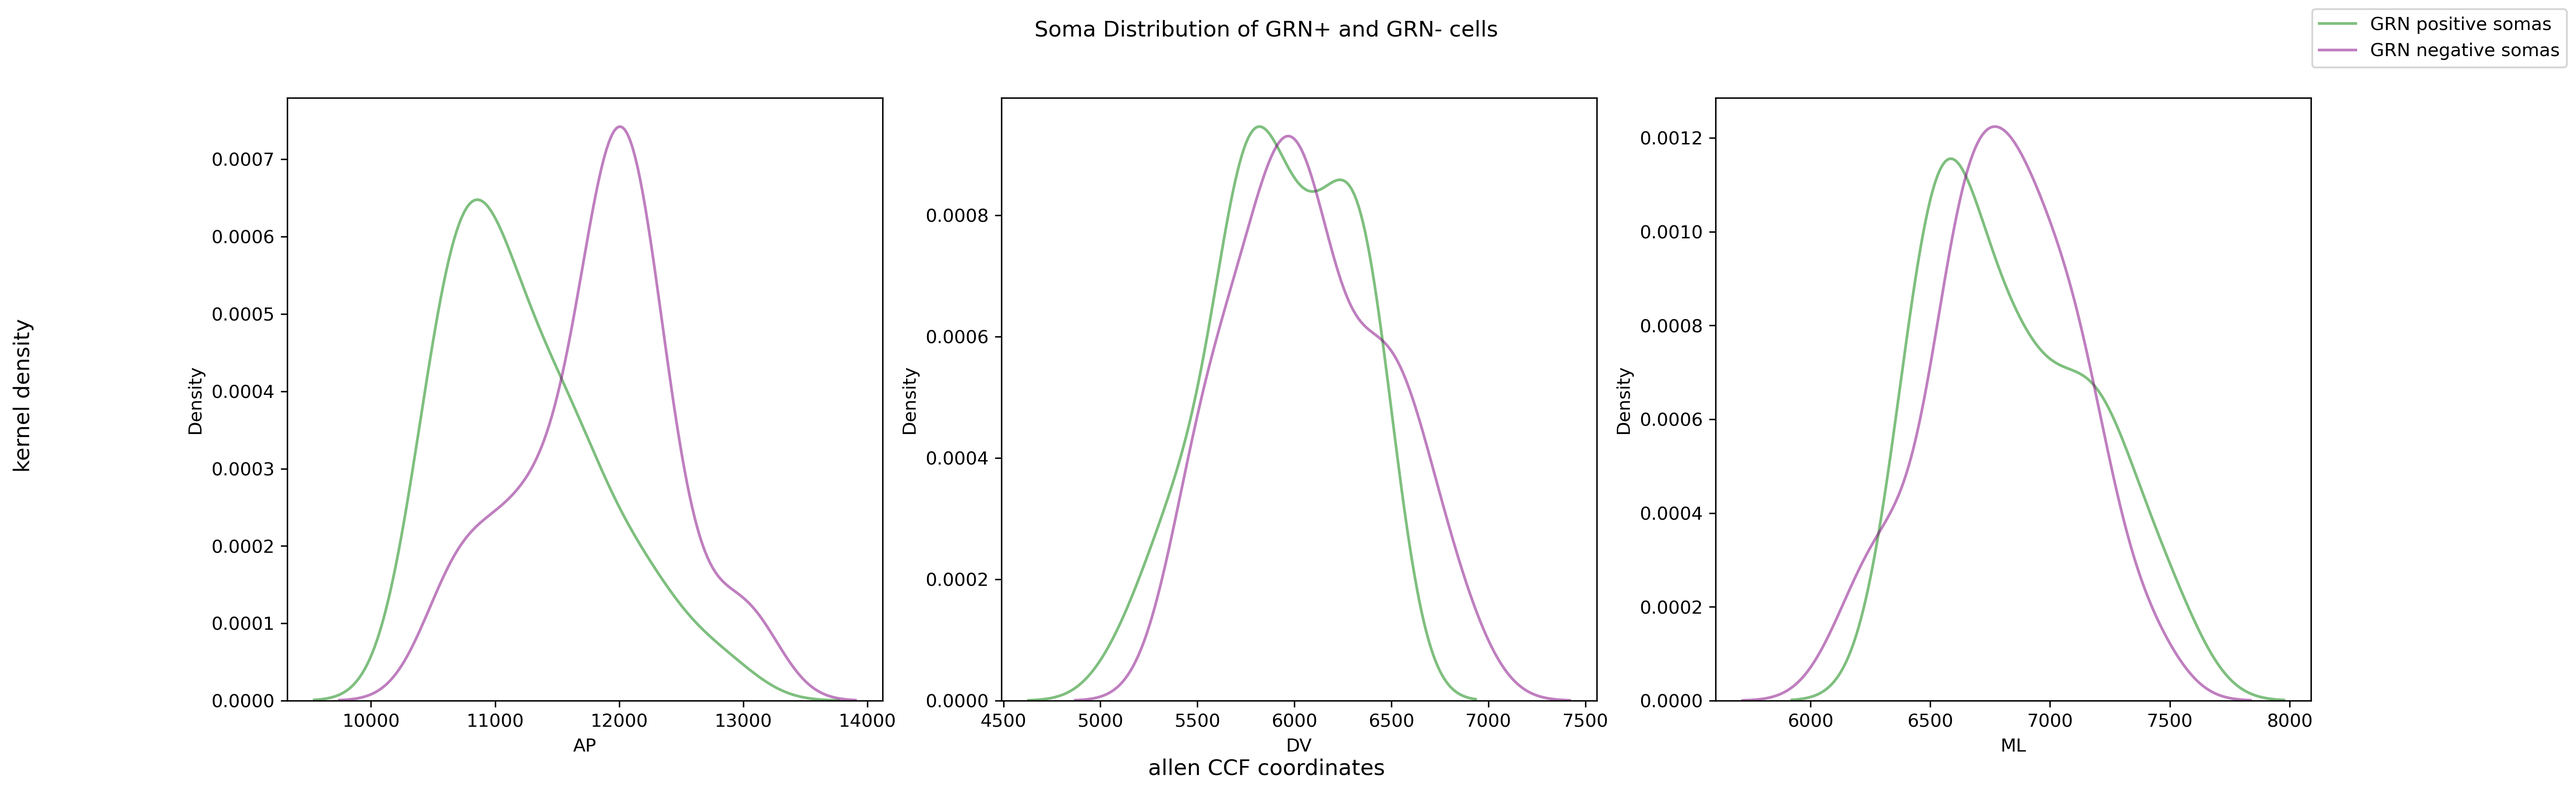
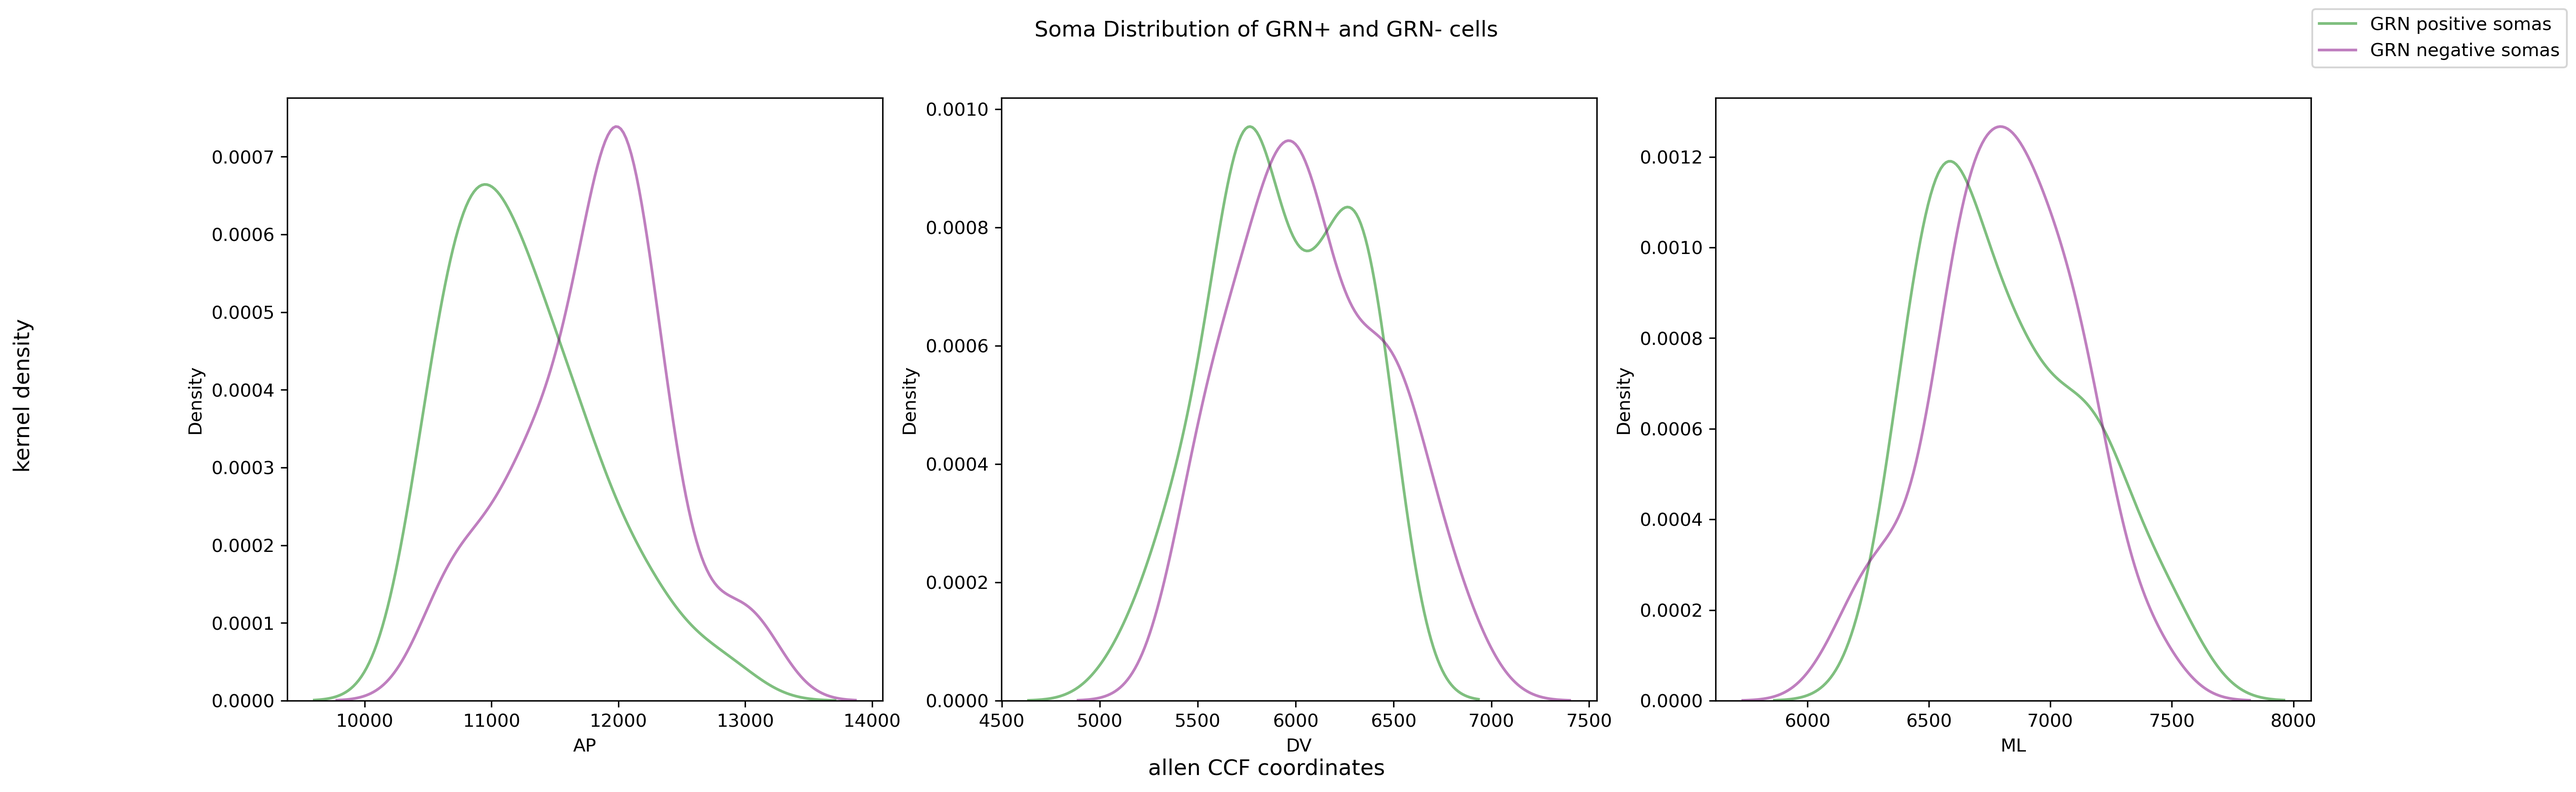
IRN/PARN compartmental analyses

diff --git a/reconstructions/utils/plotting_funcs.py b/reconstructions/utils/plotting_funcs.py
@@ -1,11 +1,62 @@
-import matplotlib
-matplotlib.use("QtAgg")
 import matplotlib.pyplot as plt
 import seaborn as sns
 from reconstructions.utils import preprocess_funcs
 
+def comp_node_dist(points1, points2, suptitle=None, labels=None, ver=3.0, colors=['blue', 'red']):
+    '''
+    Compare node distribution in x, y, z coordinates of two populations of points
+    
+    :param points1: list of dictionaries, nodes from a reconstruction's json, to be input into preprocess_funcs.get_coords
+    :param points2: list of dictionaries, nodes from a reconstruciton's json, to be input into preprocess_funcs.get_coords
+    :param suptitle: str, input to fig.suptitle
+    :param labels: list of str, labels for the two populations to compare
+    :param ver: float, allen ccf version, to be used for x labels, either 3.0 or 2.5, written as x and z were switched between two versions
+    :param colors: array of str, the colors you want the two populations to be labeled as, default blue and red
+    '''
+    points1x = preprocess_funcs.get_coords(points1, 'x')
+    points1y = preprocess_funcs.get_coords(points1, 'y')
+    points1z = preprocess_funcs.get_coords(points1, 'z')
+
+    points2x = preprocess_funcs.get_coords(points2, 'x')
+    points2y = preprocess_funcs.get_coords(points2, 'y')
+    points2z = preprocess_funcs.get_coords(points2, 'z')
+
+    fig, axes = plt.subplots(1, 3, figsize=(20,6))
+    xax, yax, zax = axes
+    if suptitle:
+        fig.suptitle(suptitle)
+    fig.supylabel('kernel density')
+    fig.supxlabel('allen CCF coordinates')
+    
+    match ver:
+        case 3.0:
+            xax.set_xlabel('AP')
+            yax.set_xlabel('DV')
+            zax.set_xlabel('ML')
+        case 2.5:
+            xax.set_xlabel('ML')
+            yax.set_xlabel('DV')
+            zax.set_xlabel('AP')
+
+    sns.kdeplot(data=points1x, color=colors[0], alpha=0.5, ax=xax)
+    sns.kdeplot(data=points2x, color=colors[1], alpha=0.5, ax=xax)
+
+    sns.kdeplot(data=points1y, color=colors[0], alpha=0.5, ax=yax)
+    sns.kdeplot(data=points2y, color=colors[1], alpha=0.5, ax=yax)
+
+    sns.kdeplot(data=points1z, color=colors[0], alpha=0.5, ax=zax)
+    sns.kdeplot(data=points2z, color=colors[1], alpha=0.5, ax=zax)
+
+    if labels:
+        lines = xax.get_lines()
+        lines[0].set_label(labels[0])
+        lines[1].set_label(labels[1])
+        fig.legend()
+
+    return fig, axes
 # =============================================================================
-# def comp_node_dist(points1, points2, suptitle=None, labels=None, ver=3.0, colors=['blue', 'red']):
+# 
+# def comp_node_dist(*dataargs, suptitle=None, labels=None, ver=3.0, colors=['blue', 'red']):
 #     '''
 #     Compare node distribution in x, y, z coordinates of two populations of points
 #     
@@ -16,13 +67,9 @@ from reconstructions.utils import preprocess_funcs
 #     :param ver: float, allen ccf version, to be used for x labels, either 3.0 or 2.5, written as x and z were switched between two versions
 #     :param colors: array of str, the colors you want the two populations to be labeled as, default blue and red
 #     '''
-#     points1x = preprocess_funcs.get_coords(points1, 'x')
-#     points1y = preprocess_funcs.get_coords(points1, 'y')
-#     points1z = preprocess_funcs.get_coords(points1, 'z')
-# 
-#     points2x = preprocess_funcs.get_coords(points2, 'x')
-#     points2y = preprocess_funcs.get_coords(points2, 'y')
-#     points2z = preprocess_funcs.get_coords(points2, 'z')
+#     datax = [preprocess_funcs.get_coords(data, 'x') for data in dataargs]
+#     datay = [preprocess_funcs.get_coords(data, 'y') for data in dataargs]
+#     dataz = [preprocess_funcs.get_coords(data, 'z') for data in dataargs]
 # 
 #     fig, (xax, yax, zax) = plt.subplots(1, 3, figsize=(20,6))
 #     if suptitle:
@@ -39,73 +86,25 @@ from reconstructions.utils import preprocess_funcs
 #             xax.set_xlabel('ML')
 #             yax.set_xlabel('DV')
 #             zax.set_xlabel('AP')
-# 
-#     sns.kdeplot(data=points1x, color=colors[0], alpha=0.5, ax=xax)
-#     sns.kdeplot(data=points2x, color=colors[1], alpha=0.5, ax=xax)
-# 
-#     sns.kdeplot(data=points1y, color=colors[0], alpha=0.5, ax=yax)
-#     sns.kdeplot(data=points2y, color=colors[1], alpha=0.5, ax=yax)
-# 
-#     sns.kdeplot(data=points1z, color=colors[0], alpha=0.5, ax=zax)
-#     sns.kdeplot(data=points2z, color=colors[1], alpha=0.5, ax=zax)
+#     
+#     for i, data in enumerate(datax):
+#         sns.kdeplot(data=data, color=colors[i-1], alpha=0.5, ax=xax)
+#     
+#     for i, data in enumerate(datay):
+#         sns.kdeplot(data=data, color=colors[i-1], alpha=0.5, ax=yax)
+#         
+#     for i, data in enumerate(dataz):
+#         sns.kdeplot(data=data, color=colors[i-1], alpha=0.5, ax=zax)
 # 
 #     if labels:
 #         lines = xax.get_lines()
-#         lines[0].set_label(labels[0])
-#         lines[1].set_label(labels[1])
+#         for i in len(lines):
+#             lines[i-1].set_label(labels[i-1])
+#         
 #         fig.legend()
 # 
 #     return fig
 # =============================================================================
-
-def comp_node_dist(*dataargs, suptitle=None, labels=None, ver=3.0, colors=['blue', 'red']):
-    '''
-    Compare node distribution in x, y, z coordinates of two populations of points
-    
-    :param points1: list of dictionaries, nodes from a reconstruction's json, to be input into preprocess_funcs.get_coords
-    :param points2: list of dictionaries, nodes from a reconstruciton's json, to be input into preprocess_funcs.get_coords
-    :param suptitle: str, input to fig.suptitle
-    :param labels: list of str, labels for the two populations to compare
-    :param ver: float, allen ccf version, to be used for x labels, either 3.0 or 2.5, written as x and z were switched between two versions
-    :param colors: array of str, the colors you want the two populations to be labeled as, default blue and red
-    '''
-    datax = [preprocess_funcs.get_coords(data, 'x') for data in dataargs]
-    datay = [preprocess_funcs.get_coords(data, 'y') for data in dataargs]
-    dataz = [preprocess_funcs.get_coords(data, 'z') for data in dataargs]
-
-    fig, (xax, yax, zax) = plt.subplots(1, 3, figsize=(20,6))
-    if suptitle:
-        fig.suptitle(suptitle)
-    fig.supylabel('kernel density')
-    fig.supxlabel('allen CCF coordinates')
-    
-    match ver:
-        case 3.0:
-            xax.set_xlabel('AP')
-            yax.set_xlabel('DV')
-            zax.set_xlabel('ML')
-        case 2.5:
-            xax.set_xlabel('ML')
-            yax.set_xlabel('DV')
-            zax.set_xlabel('AP')
-    
-    for i, data in enumerate(datax):
-        sns.kdeplot(data=data, color=colors[i-1], alpha=0.5, ax=xax)
-    
-    for i, data in enumerate(datay):
-        sns.kdeplot(data=data, color=colors[i-1], alpha=0.5, ax=yax)
-        
-    for i, data in enumerate(dataz):
-        sns.kdeplot(data=data, color=colors[i-1], alpha=0.5, ax=zax)
-
-    if labels:
-        lines = xax.get_lines()
-        for i in len(lines):
-            lines[i-1].set_label(labels[i-1])
-        
-        fig.legend()
-
-    return fig
 
 def plot_node_dist(nodes, colors=['blue']):
     pointsx = preprocess_funcs.get_coords(nodes, 'x')

diff --git a/IRN_PARN_to_XII.py b/IRN_PARN_to_XII.py
@@ -10,6 +10,7 @@ from tqdm import tqdm
 import os
 import numpy as np
 
+#os.system('conda activate reconstructions')
 
 freqs = pickle.load(open(freqspkl, 'rb'))
 somas = pickle.load(open(somaspkl, 'rb'))
@@ -34,37 +35,30 @@ IRNPARNap = IRNap+PARNap
 MedRNa_bound = np.min(IRNPARNap)
 MedRNp_bound = np.max(IRNPARNap)
 MedRNrange = MedRNp_bound-MedRNa_bound
-MedRNmid1 = MedRNrange/3
-MedRNmid2 = 2*(MedRNmid1)
+MedRNmid = MedRNa_bound + MedRNrange/3
+#MedRNmid2 = MedRNa_bound + 2*(MedRNmid1)
 
 antIPARNcells = []
-midIPARNcells = []
 postIPARNcells = []
 for cell, soma in somas.items():
-    if MedRNa_bound <= soma['x'] < MedRNmid1:
+    if MedRNa_bound <= soma['x'] < MedRNmid:
         antIPARNcells.append(cell)
-    if MedRNmid1 <= soma['x'] < MedRNmid2:
-        midIPARNcells.append(cell)
-    if MedRNmid2 <= soma['x'] <= MedRNp_bound:
+    if MedRNmid <= soma['x'] <= MedRNp_bound:
         postIPARNcells.append(cell)
         
 antIPARNends = {}
-midIPARNends = {}
 postIPARNends = {}
 for file in tqdm(os.listdir(allcoordswapped), desc='Loading endpoints'):
     cellname = file.split('.')[0]
     endpoints = ld.get_endpoints_from_file(os.path.join(allcoordswapped, file))
     if cellname in antIPARNcells:
         antIPARNends[cellname] = endpoints
-    if cellname in midIPARNends:
-        midIPARNends[cellname] = endpoints
-    if cellname in postIPARNends:
+    if cellname in postIPARNcells:
         postIPARNends[cellname] = endpoints
         
 antIPARNXII = pp.get_nodes_in_region(antIPARNends, 773, kind='bulk')
-midIPARNXII = pp.get_nodes_in_region(midIPARNends, 773, kind='bulk')
 postIPARNXII = pp.get_nodes_in_region(postIPARNends, 773, kind='bulk')
-
+5
 XIIap = [vertex[0] for vertex in XIIvertices]
 XIIdv = [vertex[1] for vertex in XIIvertices]
 XIIlr = [vertex[2] for vertex in XIIvertices]
@@ -85,9 +79,8 @@ XIIlr = [vertex[2] for vertex in XIIvertices]
 #XIInodes = pp.get_nodes_in_region(XIIends, 773, kind='bulk')
 
 #fig, axes = pl.plot_node_dist(XIInodes)
-labels = ['anterior IRN/PARN','middle IRN/PARN','posterior IRN/PARN']
-fig, axes = pl.comp_node_dist(antIPARNXII, midIPARNXII, postIPARNXII, suptitle='Compartmental analysis of IRN/PARN projections to XII',
-                              labels=labels, colors=['red', 'blue', 'green'])
+labels = ['anterior IRN/PARN','posterior IRN/PARN']
+fig, axes = pl.comp_node_dist(antIPARNXII, postIPARNXII, labels=labels, suptitle='Compartmental analysis of IRN/PARN projections to XII', colors=['red', 'blue'])
 axes[0].axvline(x=13001.4, label='XII posterior boundary')
 axes[0].axvline(x=12093.4, label='XII anterior boundary')
 axes[1].axvline(x=np.max(XIIdv), label="XII ventral boundary")
@@ -95,7 +88,9 @@ axes[1].axvline(x=np.min(XIIdv), label="XII dorsal boundary")
 axes[2].axvline(x=np.max(XIIlr), label="XII lateral boundary")
 axes[2].axvline(x=5700, label="XII medial boundary (midline)")
 fig.show()
-#input('Press Enter to continue')
+savepath = r'C:\Users\economolab\Documents\GitHub\Reconstruction_code\reconstructions\plots\antIRNPARNvpostIRNPARNXII.png'
+fig.savefig(savepath, dpi=300, bbox_inches='tight')
+input('Press Enter to continue')
 
 #XIIcoords = pp.get_coords(XIInodes, dim='all')
 

diff --git a/GRNvnonGRNsomalocs.py b/GRNvnonGRNsomalocs.py
@@ -37,9 +37,9 @@ ccf_scene.add(GRNpospoints)
 ccf_scene.add(GRNnegpoints)
 
 ccf_scene.slice(plane=medplane)
-ccf_scene.render(camera=corcam)
+#ccf_scene.render(camera=corcam)
 
-axondistfig = plotting_funcs.comp_node_dist(GRNpossomas, GRNnegsomas, suptitle='Soma Distribution of GRN+ and GRN- cells',
+axondistfig, axes = plotting_funcs.comp_node_dist(GRNpossomas, GRNnegsomas, suptitle='Soma Distribution of GRN+ and GRN- cells',
                                             labels=['GRN positive somas', 'GRN negative somas'], colors=['green', 'purple'])
 savepath = r'C:\Users\economolab\Documents\GitHub\Reconstruction_code\reconstructions\plots\GRNvnonGRNsomadist.png'
 axondistfig.savefig(savepath, dpi=300, bbox_inches='tight')

diff --git a/reconstructions/utils/filedirs.py b/reconstructions/utils/filedirs.py
@@ -18,5 +18,5 @@ allen_parcellation = r'D:\allen_brain_atlas\metadata\parcellation.csv'
 
 allen_2017_to_2020 = r"D:\allen_brain_atlas\metadata\parcellation_to_parcellation_term_membership.csv"
 
-allen_parcellationpkl = r'C:\Users\samkr\OneDrive\Documents\GitHub\Reconstruction_code\reconstructions\data\parcellation.pkl'
-parcellation_mappkl = r"C:\Users\samkr\OneDrive\Documents\GitHub\Reconstruction_code\reconstructions\data\parcellation_map.pkl"
+allen_parcellationpkl = r'reconstructions\data\parcellation.pkl' #C:\Users\samkr\OneDrive\Documents\GitHub\Reconstruction_code\
+parcellation_mappkl = r"reconstructions\data\parcellation_map.pkl" #C:\Users\samkr\OneDrive\Documents\GitHub\Reconstruction_code\

diff --git a/data_pickler.py b/data_pickler.py
@@ -27,5 +27,5 @@ import pandas as pd
 # =============================================================================
 neurondict = ld.load_neurons(allcoordswapped)
 ld.get_node_parcellations(neurondict)
-savedict = r'C:\Users\samkr\OneDrive\Documents\GitHub\Reconstruction_code\reconstructions\data\neurondict.pkl'
+savedict = r'reconstructions\data\neurondict.pkl'
 pickle.dump(neurondict, open(savedict, 'wb'))

diff --git a/reconstructions/utils/load_data.py b/reconstructions/utils/load_data.py
@@ -7,7 +7,7 @@ import pickle
 import json
 from treelib import Tree
 #import brainrender
-#from brainrender.actors import Neuron
+from brainrender.actors import Neuron
 #import vedo
 from reconstructions.utils.filedirs import allen_ccf_10um, allen_parcellationpkl, parcellation_mappkl
 import nibabel as nib
